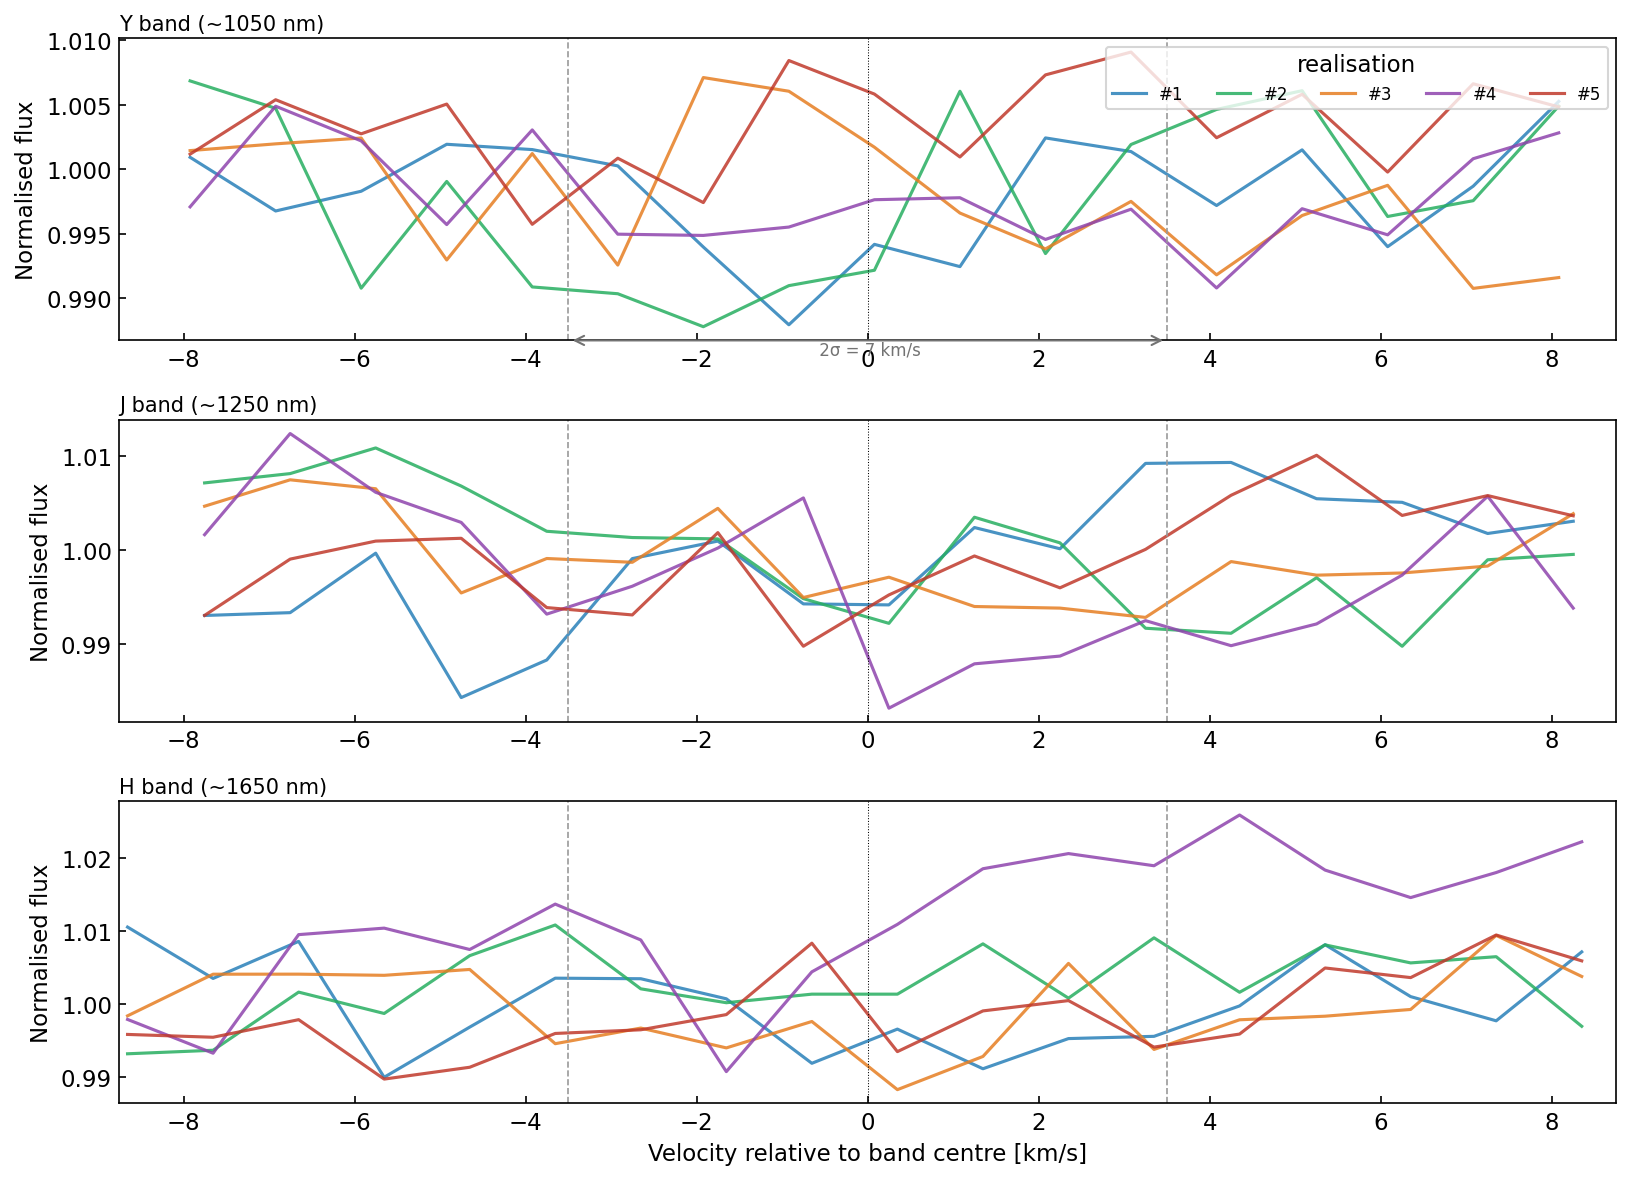
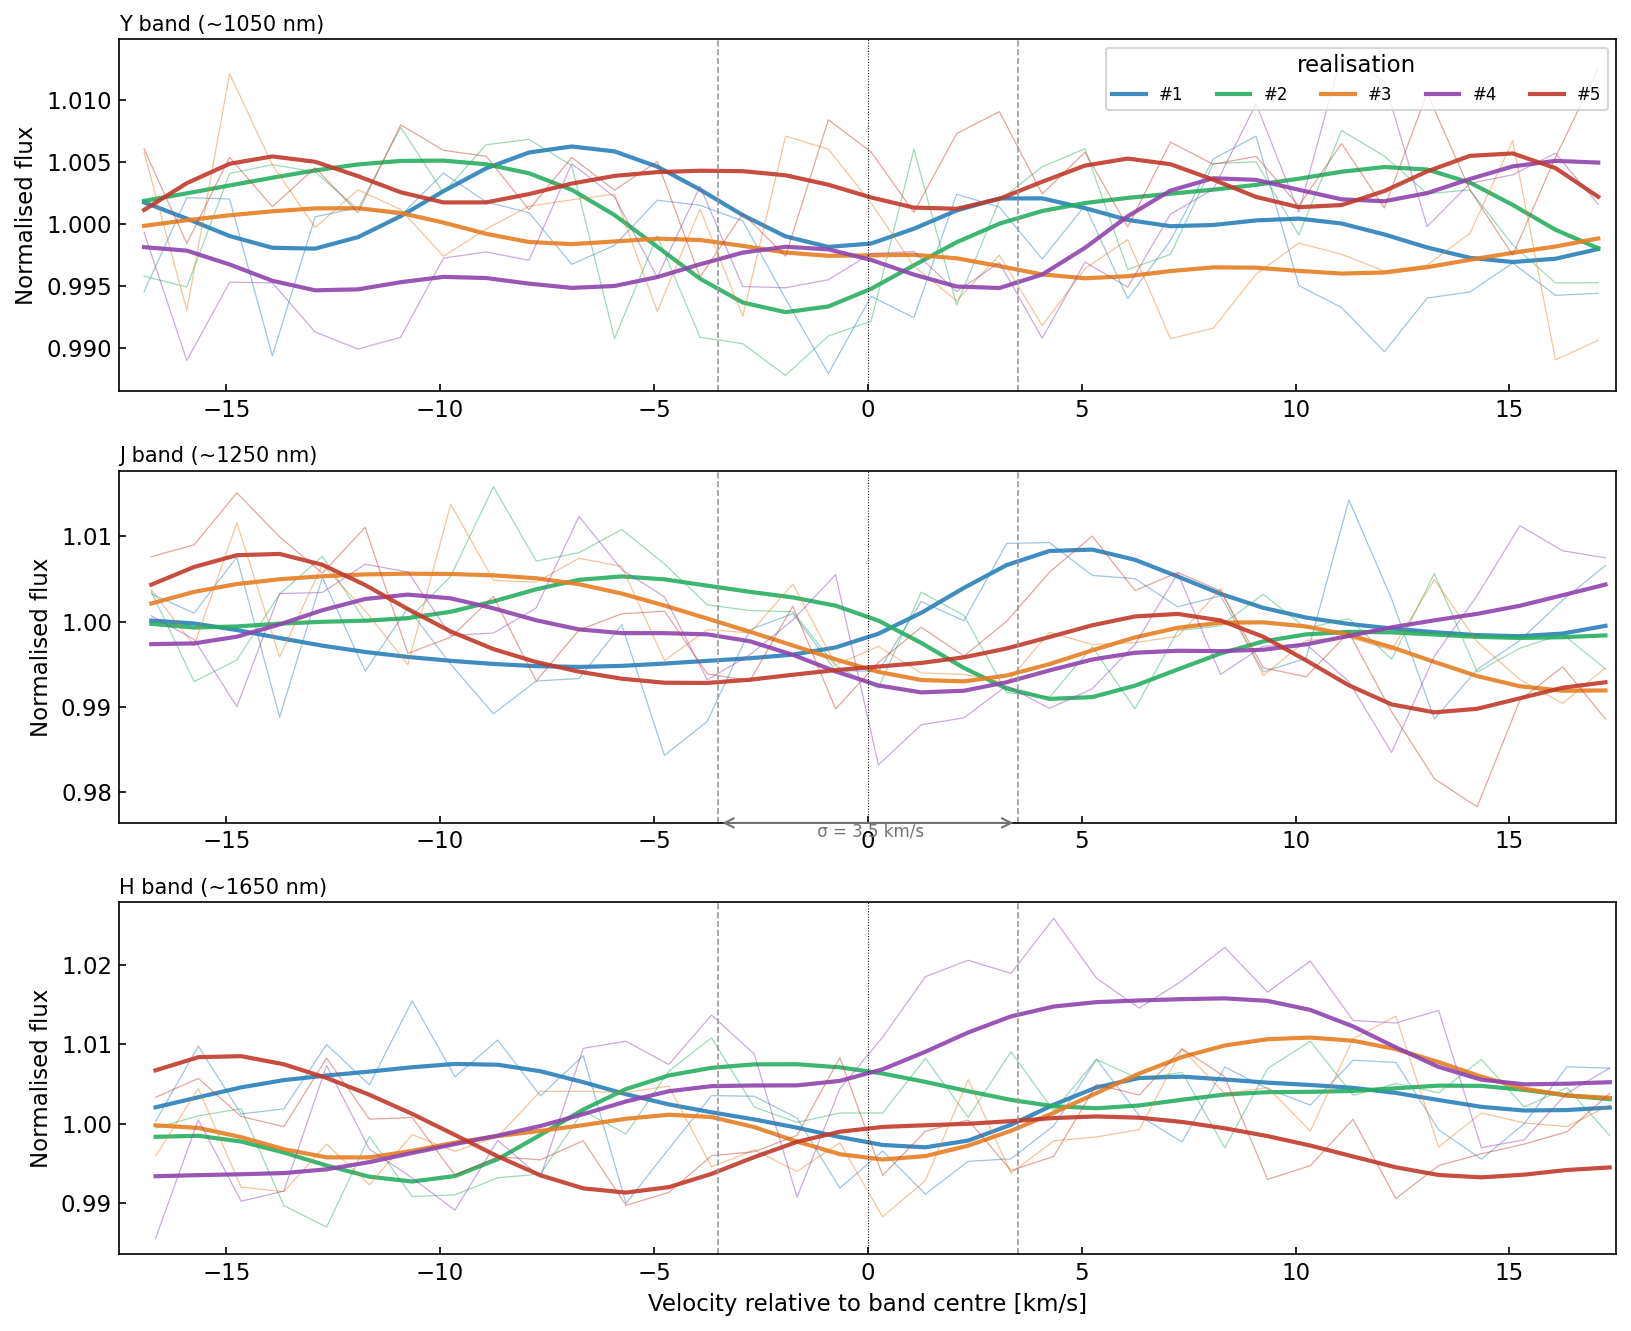
Zoom: 10 scale lengths, show GP + white noise separately

diff --git a/demo.py b/demo.py
@@ -48,14 +48,14 @@ print('figures/demo_spectrum.png')
 
 # ── figure 2: 3 zoomed regions (5 × kernel_width each), 5 realisations ───────
 kernel_width = DEFAULTS['kernel_width_kms']
-zoom_kms     = 5 * kernel_width           # total window width in velocity
+zoom_kms     = 10 * kernel_width          # total window width in velocity
 zoom_centers = [1050.0, 1250.0, 1650.0]  # nm  (Y, J, H)
 zoom_labels  = ['Y band (~1050 nm)', 'J band (~1250 nm)', 'H band (~1650 nm)']
 
 # pre-generate 5 realisations
 reals = [generate_spectrum(seed=s) for s in range(5)]
 
-fig, axes = plt.subplots(3, 1, figsize=(11, 8), sharex=False)
+fig, axes = plt.subplots(3, 1, figsize=(11, 9), sharex=False)
 
 for ax, center, label in zip(axes, zoom_centers, zoom_labels):
     half_lam = center * (zoom_kms / 2) / C_LIGHT
@@ -64,8 +64,11 @@ for ax, center, label in zip(axes, zoom_centers, zoom_labels):
     for i, (wave, spec, gp) in enumerate(reals):
         mask = (wave >= lam_lo) & (wave <= lam_hi)
         vel_rel = (wave[mask] / center - 1) * C_LIGHT
-        ax.plot(vel_rel, spec[mask], color=COLORS[i], lw=1.5, alpha=0.85,
-                label=f'#{i+1}')
+        # underlying GP (smooth)
+        ax.plot(vel_rel, 1 + gp[mask], color=COLORS[i], lw=2.0, alpha=0.9,
+                label=f'#{i+1}' if ax is axes[0] else None)
+        # white noise on top
+        ax.plot(vel_rel, spec[mask], color=COLORS[i], lw=0.6, alpha=0.45)
 
     for sign in (-1, 1):
         ax.axvline(sign * kernel_width, color='0.6', lw=0.8, ls='--')
@@ -75,15 +78,17 @@ for ax, center, label in zip(axes, zoom_centers, zoom_labels):
     ax.set_ylabel('Normalised flux')
     ax.set_title(label, fontsize=10, loc='left', pad=4)
 
-    # kernel width label on first panel only
     if ax is axes[0]:
-        ybot = ax.get_ylim()[0]
-        ax.annotate('', xy=(kernel_width, ybot), xytext=(-kernel_width, ybot),
-                    arrowprops=dict(arrowstyle='<->', color='0.45', lw=1.0),
-                    annotation_clip=False)
-        ax.text(0, ybot, f' 2σ = {2*kernel_width:.0f} km/s',
-                va='top', ha='center', fontsize=8, color='0.45')
         ax.legend(fontsize=8, ncol=5, loc='upper right', title='realisation')
+
+# kernel width arrow on middle panel
+ax_mid = axes[1]
+ybot = ax_mid.get_ylim()[0]
+ax_mid.annotate('', xy=(kernel_width, ybot), xytext=(-kernel_width, ybot),
+                arrowprops=dict(arrowstyle='<->', color='0.45', lw=1.0),
+                annotation_clip=False)
+ax_mid.text(0, ybot, f' σ = {kernel_width:.1f} km/s',
+            va='top', ha='center', fontsize=8, color='0.45')
 
 axes[-1].set_xlabel('Velocity relative to band centre [km/s]')
 